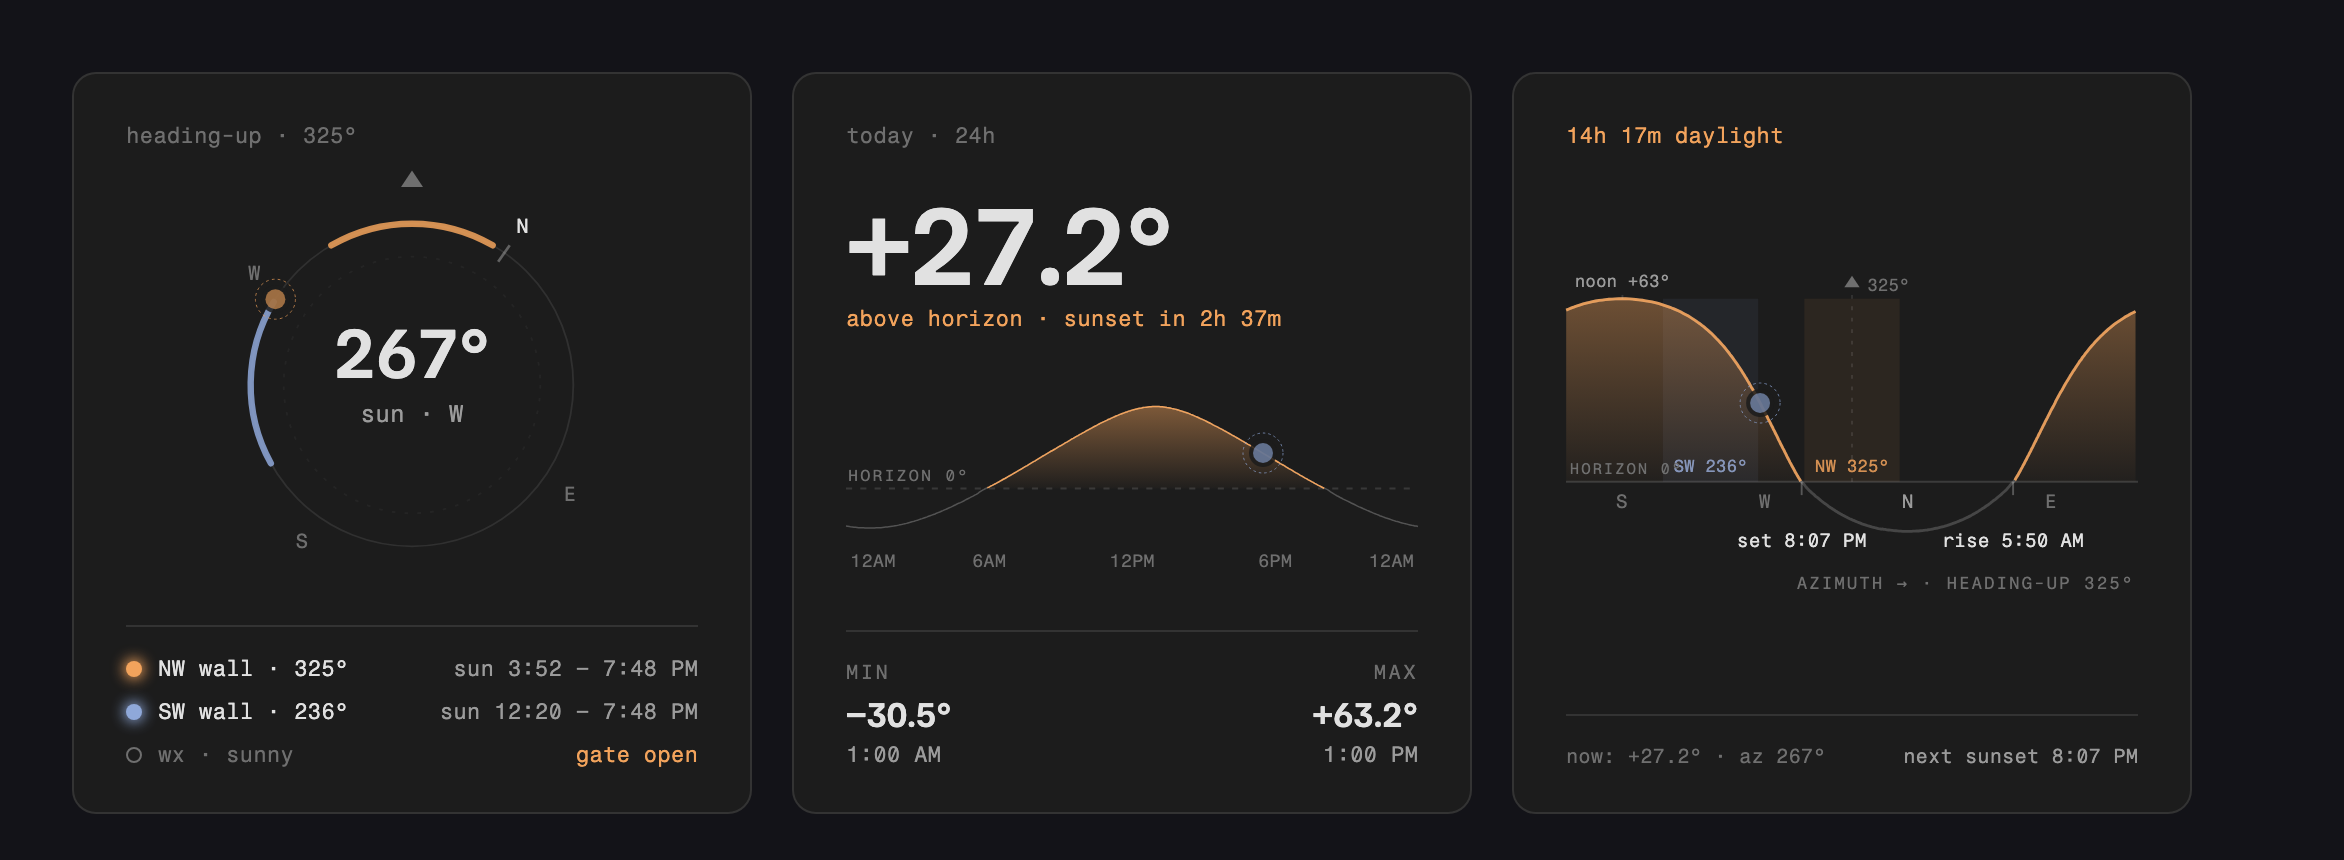
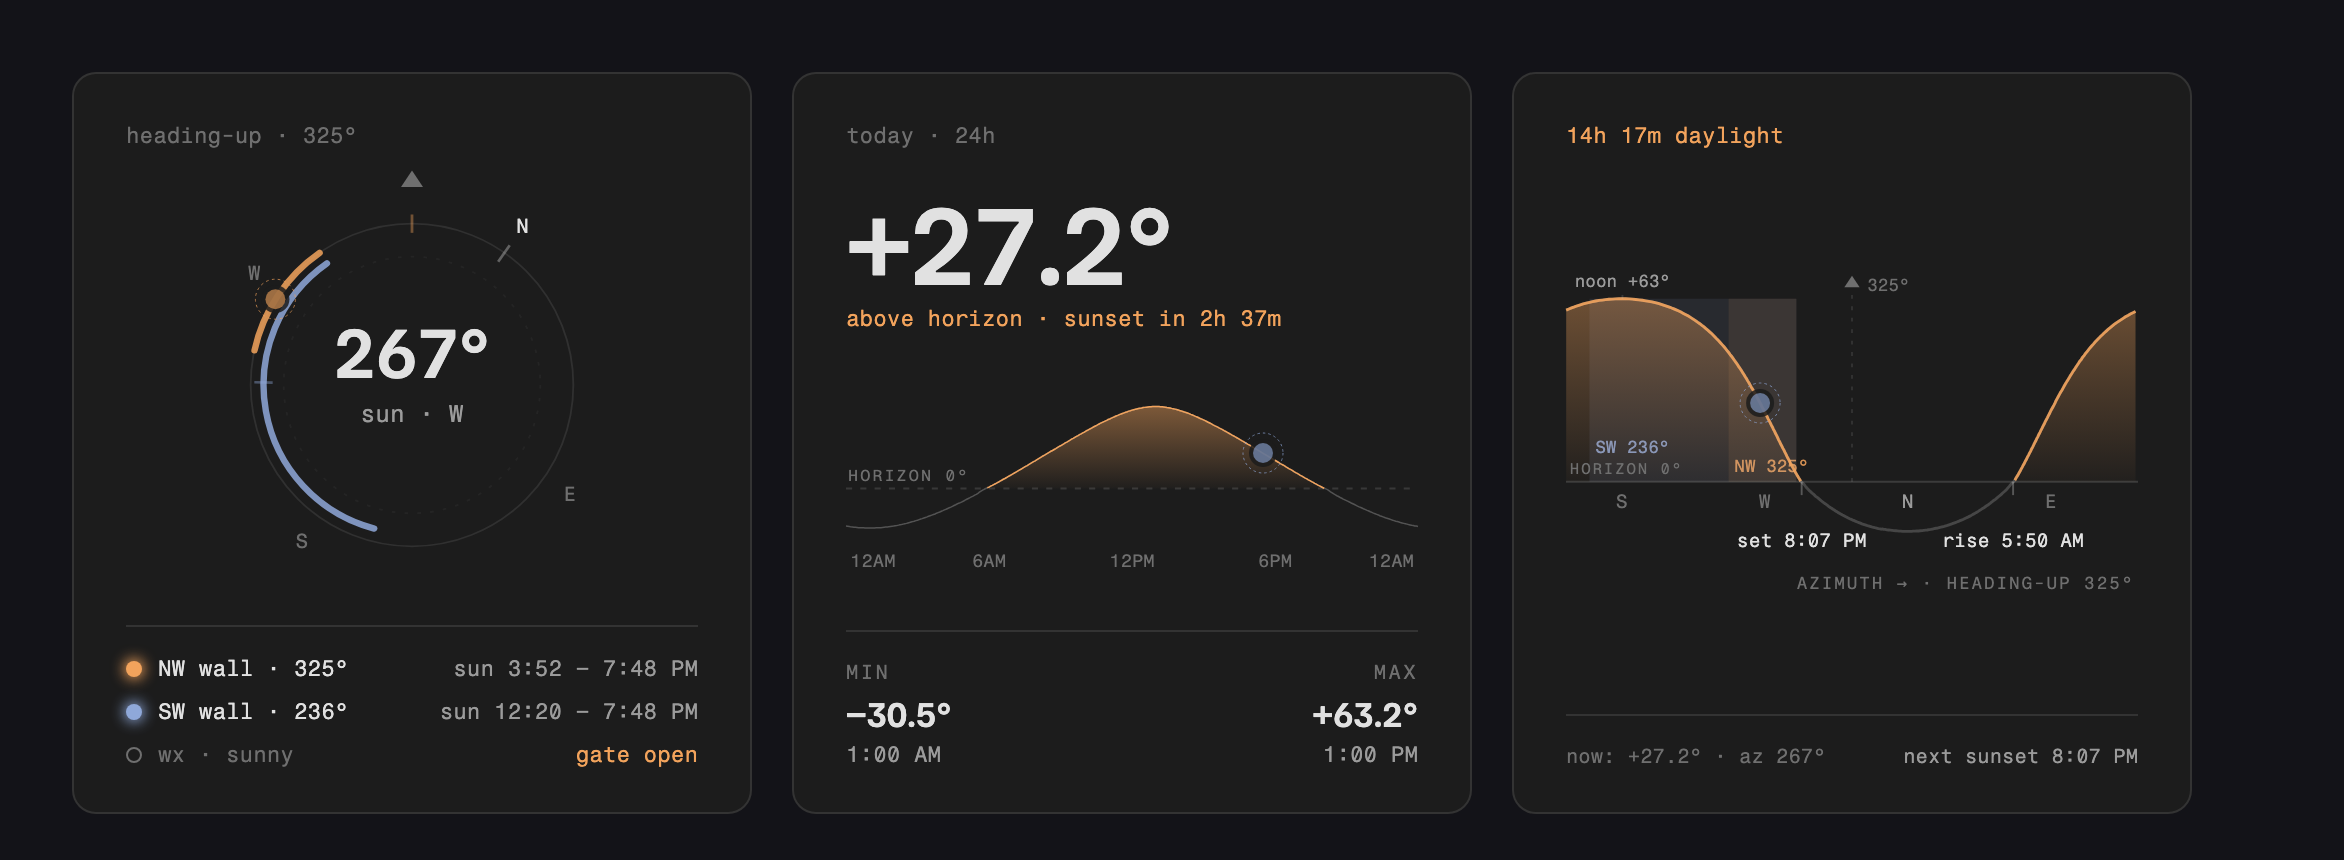
v1.5.0: draw walls from the real sun-on-glass rule
The wall arcs and bands were drawn as a fixed 60-degree cone around the
wall bearing, independent of the sun-on-glass rule used for the times.
At 43N in summer the sun sets at azimuth 293, so the NW band (295-355)
sat entirely outside the sun's path and the day curve ended just before
reaching it - the chart implied the sun set before ever hitting those
windows, which is false.

Walls are now drawn over the azimuths the sun actually crosses while
lighting them (within sun_window AND above min_elevation), matching the
shade automation's fov/min_elevation. Arcs are staggered by radius so
overlapping walls stay visible, a tick marks each bearing for days with
no sun, and the path card gained sun_window/min_elevation. Drops the
wall_arc option and adds windy to sunny_conditions.

diff --git a/sun-cards.js b/sun-cards.js
@@ -12,7 +12,7 @@
 (() => {
   'use strict';
 
-  const VERSION = '1.4.0';
+  const VERSION = '1.5.0';
   const REPO = 'https://github.com/tkamenick/lovelace-sun-cards';
 
   /* ── palette ────────────────────────────────────────────────────────────
@@ -431,11 +431,10 @@
         { name: 'NW wall', bearing: 325 },
         { name: 'SW wall', bearing: 236 },
       ],
-      wall_arc: 60, // drawn arc width (visual)
       sun_window: 78, // half-angle for sun-on-glass windows
       min_elevation: 3,
       sun_entity: 'sun.sun',
-      sunny_conditions: ['sunny', 'partlycloudy'],
+      sunny_conditions: ['sunny', 'partlycloudy', 'windy'],
       load_fonts: true,
     };
     static cardSize = 7;
@@ -453,10 +452,14 @@
         const a = (azm - heading) * RAD;
         return [(120 + r * Math.sin(a)).toFixed(1), (120 - r * Math.cos(a)).toFixed(1)];
       };
-      const arc = (b, w) => {
-        const [x1, y1] = pt(b - w / 2, 88);
-        const [x2, y2] = pt(b + w / 2, 88);
-        return `M ${x1} ${y1} A 88 88 0 ${w > 180 ? 1 : 0} 1 ${x2} ${y2}`;
+      // arc along the horizon ring between two azimuths, following the sun's
+      // own direction of travel (increasing azimuth = clockwise on screen)
+      const arcBetween = (az1, az2, r) => {
+        const span = norm360(az2 - az1);
+        if (span < 0.5) return '';
+        const [x1, y1] = pt(az1, r);
+        const [x2, y2] = pt(az2, r);
+        return `M ${x1} ${y1} A ${r} ${r} 0 ${span > 180 ? 1 : 0} 1 ${x2} ${y2}`;
       };
       const letter = (azm, label, color) => {
         const [x, y] = pt(azm, 105);
@@ -468,17 +471,47 @@
       const [sx, sy] = pt(az, 88);
       const sunDim = el > 0 ? 1 : 0.55;
 
-      const arcs = walls
-        .map(
-          (w) =>
-            `<path d="${arc(w.bearing, c.wall_arc)}" fill="none" stroke="${this._wallColor(w)}" stroke-width="3.5" stroke-linecap="round" opacity="0.85"></path>`
-        )
+      /* Each wall is drawn as the stretch of horizon the sun actually crosses
+         while lighting that glass today — not the window's full acceptance
+         cone. The cone is ±sun_window wide (±78° by default), but the sun only
+         ever traverses part of it, and which part shifts through the seasons.
+         Drawing the cone put the NW band where the sun never goes in summer,
+         making it look as though the sun set before reaching those windows. */
+      const lit = walls.map((w) => ({
+        w,
+        color: this._wallColor(w),
+        wins: glassWindows(tb.pts, w.bearing, c.sun_window, c.min_elevation).map((win) => ({
+          ...win,
+          azStart: solarPos(win.start, ...this._latlon()).az,
+          azEnd: solarPos(win.end, ...this._latlon()).az,
+        })),
+      }));
+
+      const arcs = lit
+        .map(({ w, color, wins }) => {
+          // Walls whose lit ranges overlap (they usually do — one wall's sun
+          // window often contains another's) would hide each other at a shared
+          // radius, so each wall gets its own ring.
+          const arcR = 88 - w.slot * 7;
+          // faint tick at the wall bearing so its orientation still reads on a
+          // day the sun never reaches it (winter, or a north-facing wall)
+          const [b1x, b1y] = pt(w.bearing, arcR - 5);
+          const [b2x, b2y] = pt(w.bearing, arcR + 5);
+          const tick = `<line x1="${b1x}" y1="${b1y}" x2="${b2x}" y2="${b2y}" stroke="${color}" stroke-width="1.5" opacity="0.4"></line>`;
+          const bands = wins
+            .map((win) => {
+              const d = arcBetween(win.azStart, win.azEnd, arcR);
+              return d
+                ? `<path d="${d}" fill="none" stroke="${color}" stroke-width="3.5" stroke-linecap="round" opacity="0.85"></path>`
+                : '';
+            })
+            .join('');
+          return tick + bands;
+        })
         .join('');
 
-      const rows = walls
-        .map((w) => {
-          const wc = this._wallColor(w);
-          const wins = glassWindows(tb.pts, w.bearing, c.sun_window, c.min_elevation);
+      const rows = lit
+        .map(({ w, color: wc, wins }) => {
           const times = wins.length
             ? 'sun ' + wins.slice(0, 2).map((win) => fmtRange(hass, win.start, win.end)).join(' · ')
             : 'no direct sun';
@@ -644,7 +677,8 @@
         { name: 'NW wall', bearing: 325 },
         { name: 'SW wall', bearing: 236 },
       ],
-      wall_arc: 60,
+      sun_window: 78, // must match the bearing card / the automation's fov
+      min_elevation: 3,
       sun_entity: 'sun.sun',
       load_fonts: true,
     };
@@ -707,29 +741,43 @@
         flush();
       }
 
-      const bandW = (c.wall_arc * 300) / 360;
+      /* A wall's band covers the azimuths the sun crosses while actually
+         lighting that glass today (±sun_window AND above min_elevation) —
+         the same rule the shade automation runs on. Drawing the window's full
+         acceptance cone instead would place the band where the sun never
+         travels this time of year. */
       const bands = walls
         .map((w) => {
           const wc = this._wallColor(w);
-          const cx = bx(w.bearing);
-          const L = cx - bandW / 2;
-          const R = cx + bandW / 2;
           const rects = [];
           const add = (l, r) => {
             l = Math.max(0, l);
             r = Math.min(300, r);
             if (r > l)
               rects.push(
-                `<rect x="${l.toFixed(1)}" y="14" width="${(r - l).toFixed(1)}" height="96" fill="${wc}" opacity="0.08"></rect>`
+                `<rect x="${l.toFixed(1)}" y="14" width="${(r - l).toFixed(1)}" height="96" fill="${wc}" opacity="0.10"></rect>`
               );
           };
-          add(L, R);
-          if (L < 0) add(L + 300, R + 300);
-          if (R > 300) add(L - 300, R - 300);
+          const wins = glassWindows(tb.pts, w.bearing, c.sun_window, c.min_elevation);
+          let labelX = bx(w.bearing);
+          wins.forEach((win, i) => {
+            const x1 = bx(solarPos(win.start, lat, lon).az);
+            const x2 = bx(solarPos(win.end, lat, lon).az);
+            if (x2 >= x1) add(x1, x2);
+            else {
+              // the lit stretch runs off one edge of the heading-up axis
+              add(x1, 300);
+              add(0, x2);
+            }
+            if (i === 0) labelX = x1;
+          });
           const short = esc(String(w.name || '').split(/\s+/)[0].toUpperCase());
+          // anchored to each band's left edge, and stepped down per wall, so
+          // labels stay apart even when the bands themselves overlap heavily
+          const ly = 105 - w.slot * 10;
           return (
             rects.join('') +
-            `<text x="${cx.toFixed(1)}" y="105" text-anchor="middle" fill="${wc}" font-family="${MONO_SVG}" font-size="9" opacity="0.85">${short} ${Math.round(w.bearing)}°</text>`
+            `<text x="${Math.min(250, Math.max(2, labelX + 3)).toFixed(1)}" y="${ly}" text-anchor="start" fill="${wc}" font-family="${MONO_SVG}" font-size="9" opacity="0.85">${short} ${Math.round(w.bearing)}°</text>`
           );
         })
         .join('');

diff --git a/README.md b/README.md
@@ -67,21 +67,33 @@ accent (amber, blue, green, pink), which keeps it readable on both light and dar
 | Option | Default | Description |
 |---|---|---|
 | `heading` | `325` | Compass bearing rendered "up" on the bearing compass and path chart |
-| `wall_arc` | `60` | **Drawn** arc/band width in degrees (visual only) |
+
+### Sun-on-glass rule (bearing + path cards)
+
+| Option | Default | Description |
+|---|---|---|
+| `sun_window` | `78` | Half-angle: sun is "on the glass" when its azimuth is within ±this of the wall bearing… |
+| `min_elevation` | `3` | …and elevation is above this |
+
+These two options define when a wall counts as lit, and everything about a wall is derived
+from them: the per-wall times, the glowing dot, the compass arc, and the path-chart band.
+They intentionally mirror the `fov` / `min_elevation` inputs of a sun-glare shade automation,
+so the card and the automation agree about when the sun is on a given window.
+
+A wall is drawn as **the stretch of sky the sun actually crosses while lighting it today** —
+not the window's full ±78° acceptance cone. That distinction matters: the sun only ever
+traverses part of the cone, and which part shifts through the year. Drawing the cone would put
+a band where the sun never travels in the current season, making it look as though the sun set
+before it ever reached those windows. A faint tick on the compass still marks each wall's
+bearing, so its orientation reads even on a day it gets no sun at all.
 
 ### Bearing card only
 
 | Option | Default | Description |
 |---|---|---|
-| `sun_window` | `78` | Half-angle: sun is "on the glass" when its azimuth is within ±this of the wall bearing… |
-| `min_elevation` | `3` | …and elevation is above this. Drives the per-wall time windows and the glowing dot |
 | `weather_entity` | — | Weather entity for the gate row (e.g. `weather.kues`) |
 | `bypass_entity` | — | `input_boolean`; when `on` the row shows **gate bypassed** |
-| `sunny_conditions` | `[sunny, partlycloudy]` | Conditions that count as "gate open"; anything else shows **cloud hold** |
-
-Note that `wall_arc` (what is drawn) is deliberately separate from `sun_window`/`min_elevation`
-(what is computed): ±78° is nearly a full half-circle and would swamp the chart, so the drawn
-arcs stay at a readable 60° while the time windows use the real automation rule.
+| `sunny_conditions` | `[sunny, partlycloudy, windy]` | Conditions that count as "gate open"; anything else shows **cloud hold** |
 
 ## Example: 3-column sections view
 
